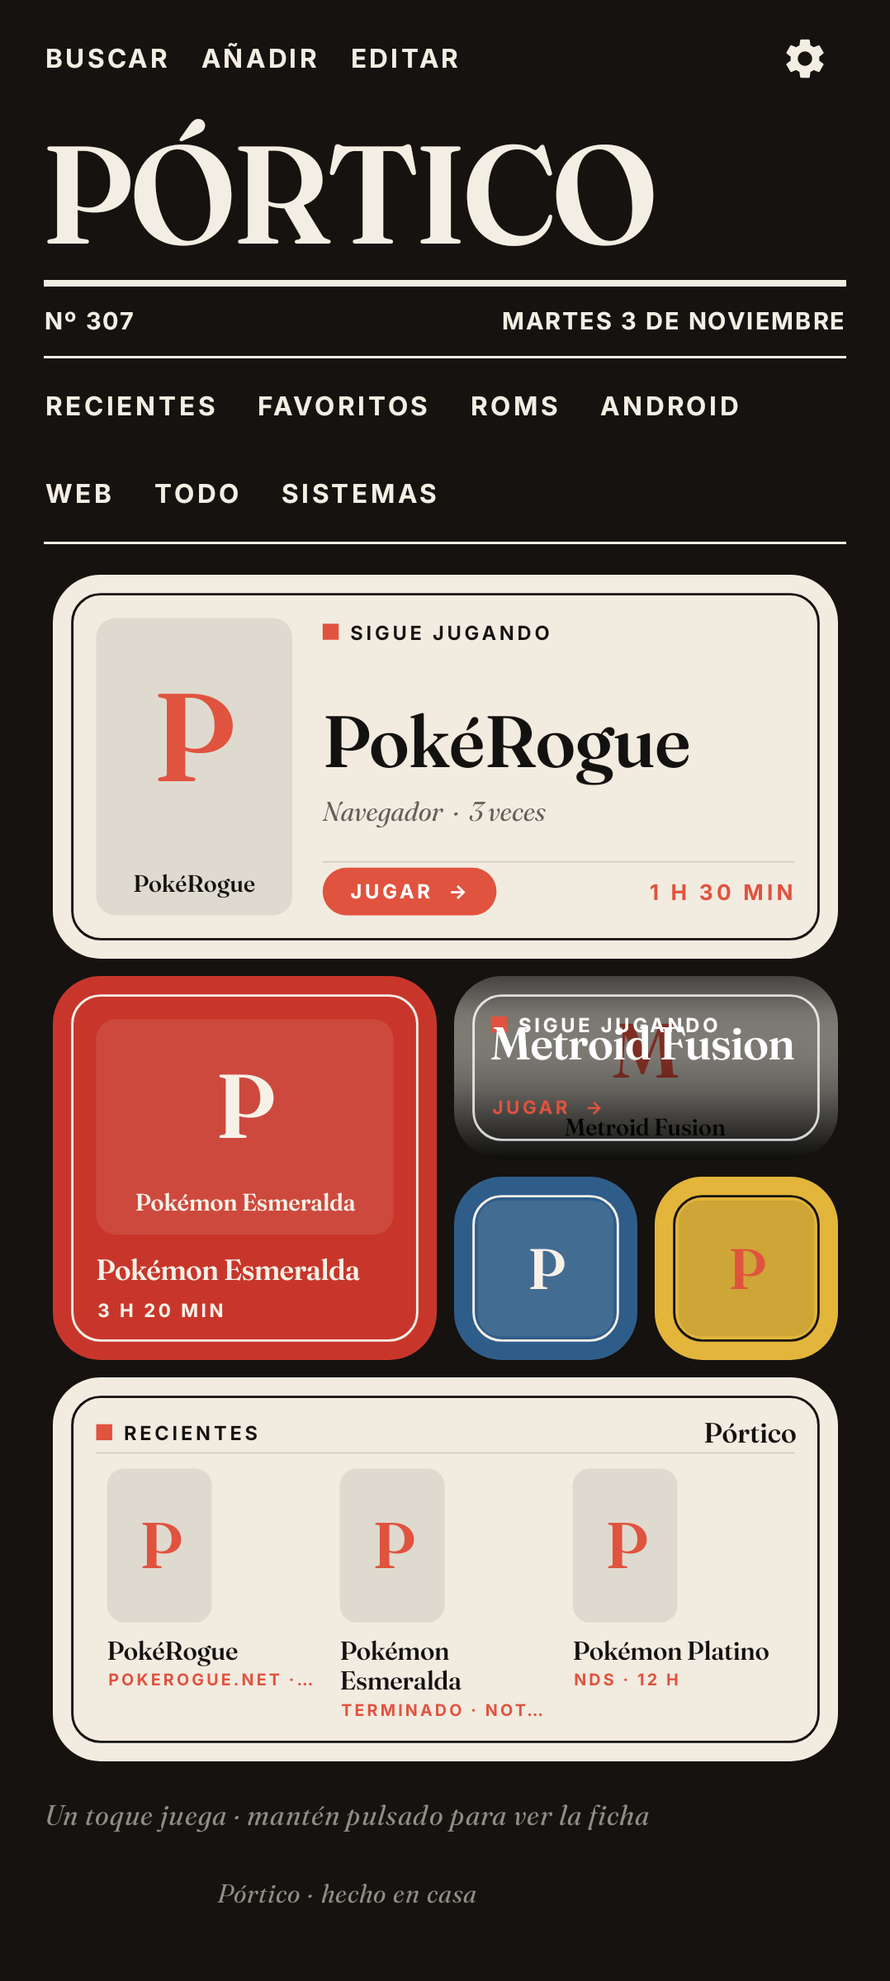
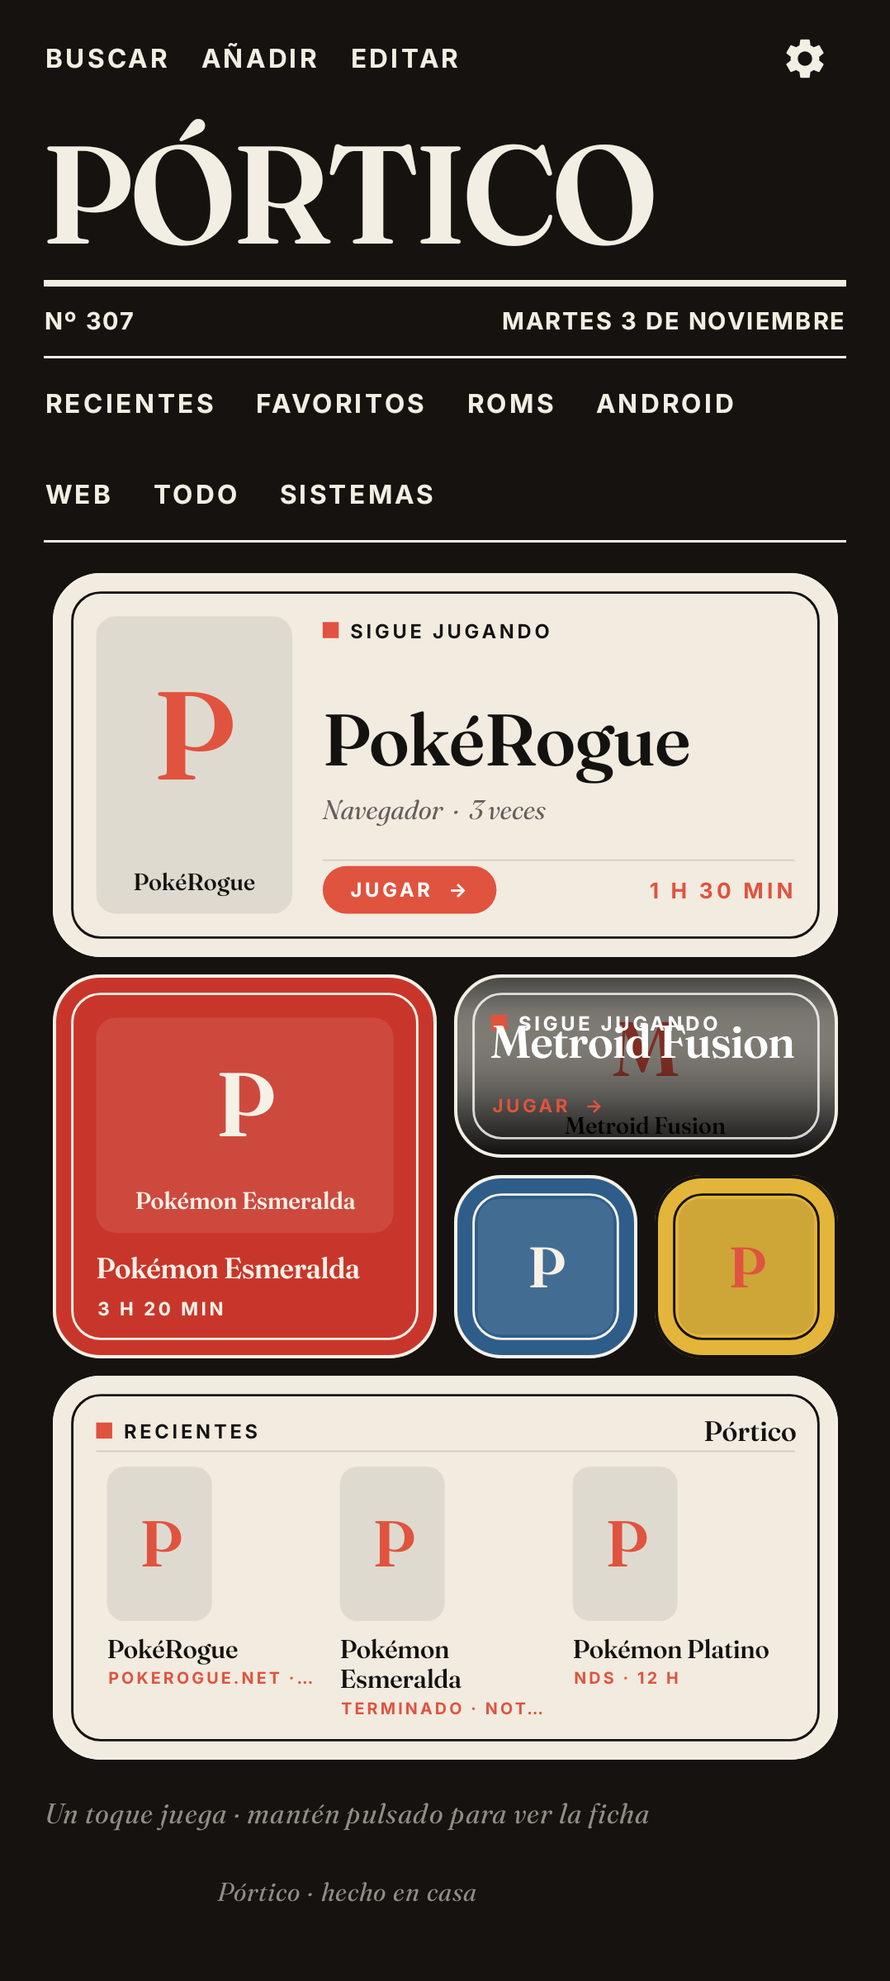
Pórtico 0.15.1: texto con la tinta del tema, contorno del color del texto en los elementos, menús con un solo tamaño, apariencia sincronizada entre Pórticos
Claude-Session: https://claude.ai/code/session_01Q4uywen3nuzUg5CTwJaCY5

diff --git a/app/src/main/java/com/gonzalo/portico/TemaMotor.kt b/app/src/main/java/com/gonzalo/portico/TemaMotor.kt
@@ -1,6 +1,7 @@
 package com.gonzalo.portico
 
 import android.content.Context
+import org.json.JSONObject
 import androidx.compose.foundation.isSystemInDarkTheme
 import androidx.compose.foundation.shape.CutCornerShape
 import androidx.compose.foundation.shape.RoundedCornerShape
@@ -224,12 +225,47 @@ object Skin {
         origenAtrio = p.getBoolean("origen_atrio", true)
         Modo.eleccion = p.getInt("modo", 0).coerceIn(0, 2)
         fondoId = p.getString("fondo_id", "")?.takeIf { id -> FONDOS.any { it.id == id } } ?: ""
+        ajustesAt = p.getLong("ajustes_at", 0L)
         fondoPropio = p.getLong("fondo_propio", 0L); tintaPropia = p.getLong("tinta_propia", 0L); acentoPropio = p.getLong("acento_propio", 0L)
     }
 
+    /** Cuándo se cambió la apariencia (milisegundos): al sincronizar con tus otros Pórticos gana la más reciente. */
+    var ajustesAt = 0L
+
+    /** Guarda la apariencia (y la marca como cambiada ahora, para que viaje a tus otros Pórticos). */
     fun guardar(c: Context) {
+        ajustesAt = System.currentTimeMillis()
+        persistir(c)
+        SincroP.cambio(c)
+    }
+
+    /** La apariencia que viaja con la cuenta (tema, fondo, acento, colores a mano, letras, tamaño…). */
+    fun ajustesJson(): JSONObject = JSONObject().put("at", ajustesAt).put("skin", JSONObject()
+        .put("paleta", palette.id).put("display", display).put("body", body).put("acento", accentId).put("escala", escala)
+        .put("invertido", invertido).put("origenAtrio", origenAtrio).put("modo", Modo.eleccion)
+        .put("fondoId", fondoId).put("fondoPropio", fondoPropio).put("tintaPropia", tintaPropia).put("acentoPropio", acentoPropio))
+
+    /** Aplica la apariencia de otro de tus Pórticos si es más nueva que la de aquí. Devuelve true si ha cambiado algo. */
+    fun aplicarAjustes(c: Context, o: JSONObject): Boolean {
+        val at = o.optLong("at", 0L)
+        if (at <= ajustesAt) return false
+        val k = o.optJSONObject("skin") ?: return false
+        palette = PALETTES.firstOrNull { it.id == k.optString("paleta") } ?: palette
+        display = k.optString("display", display).ifBlank { "Atrio" }; body = k.optString("body", body).ifBlank { "Atrio" }
+        accentId = k.optString("acento", accentId).takeIf { id -> id == "paleta" || ACCENT_COLORS.any { it.id == id } } ?: "paleta"
+        escala = k.optInt("escala", escala).coerceIn(80, 140)
+        invertido = k.optBoolean("invertido", invertido); origenAtrio = k.optBoolean("origenAtrio", origenAtrio)
+        Modo.eleccion = k.optInt("modo", Modo.eleccion).coerceIn(0, 2)
+        fondoId = k.optString("fondoId").takeIf { id -> FONDOS.any { it.id == id } } ?: ""
+        fondoPropio = k.optLong("fondoPropio", 0L); tintaPropia = k.optLong("tintaPropia", 0L); acentoPropio = k.optLong("acentoPropio", 0L)
+        ajustesAt = at
+        persistir(c)
+        return true
+    }
+
+    private fun persistir(c: Context) {
         Widgets.pedir(c)
-        p(c).edit().putString("paleta", palette.id).putString("display", display).putString("body", body).putString("forma", forma.id)
+        p(c).edit().putLong("ajustes_at", ajustesAt).putString("paleta", palette.id).putString("display", display).putString("body", body).putString("forma", forma.id)
             .putString("acento", accentId).putBoolean("invertido", invertido).putBoolean("origen_atrio", origenAtrio).putInt("escala", escala).putInt("modo", Modo.eleccion)
             .putString("fondo_id", fondoId).putLong("fondo_propio", fondoPropio).putLong("tinta_propia", tintaPropia).putLong("acento_propio", acentoPropio).apply()
     }
@@ -307,6 +343,9 @@ fun PorticoTheme(content: @Composable () -> Unit) {
     androidx.compose.runtime.CompositionLocalProvider(
         LocalDensity provides Density(d.density, d.fontScale * Skin.escala / 100f)
     ) {
-        MaterialTheme(colorScheme = appColors(), typography = AppTypography, content = content)
+        MaterialTheme(colorScheme = appColors(), typography = AppTypography) {
+            // El texto sin color propio sale con la tinta del tema (si no, negro: se veía mal sobre un fondo oscuro)
+            androidx.compose.runtime.CompositionLocalProvider(androidx.compose.material3.LocalContentColor provides Charcoal, content = content)
+        }
     }
 }

diff --git a/app/src/main/java/com/gonzalo/portico/Revista.kt b/app/src/main/java/com/gonzalo/portico/Revista.kt
@@ -62,9 +62,13 @@ fun Antetitulo(texto: String, modifier: Modifier = Modifier, tam: TextUnit = 13.
 /** Un enlace de acción en versalitas («BUSCAR», «EDITAR», «+ AÑADIR»…). */
 @Composable
 fun EnlaceRevista(texto: String, modifier: Modifier = Modifier, acento: Boolean = false, onClick: () -> Unit) {
-    Text(texto.uppercase(), color = if (acento) Acento else Charcoal, fontFamily = Body, fontSize = 12.sp, fontWeight = FontWeight.Black, letterSpacing = 1.4.sp, maxLines = 1,
+    Text(texto.uppercase(), color = if (acento) Acento else Charcoal, fontFamily = Body, fontSize = MENU_SP, fontWeight = FontWeight.Black, letterSpacing = MENU_ESPACIO, maxLines = 1,
         modifier = modifier.semantics { role = Role.Button }.clickable(onClick = onClick).padding(vertical = 10.dp))
 }
+
+/** El texto de todos los menús (enlaces, secciones, pestañas, filtros): el mismo tamaño y espaciado en toda la app. */
+val MENU_SP = 12.sp
+val MENU_ESPACIO = 1.4.sp
 
 /** «← VOLVER» (o «← PÓRTICO» en lo que cuelga de la portada). */
 @Composable
@@ -80,7 +84,7 @@ fun PestanasRevista(nombres: List<String>, sel: Int, modifier: Modifier = Modifi
                 Row(Modifier.semantics { selected = on; role = Role.Tab }.clickable { onSel(i) }
                     .drawBehind { if (on) drawRect(Acento, topLeft = Offset(0f, size.height - 3.dp.toPx()), size = Size(size.width, 3.dp.toPx())) }
                     .padding(top = 12.dp, bottom = 10.dp), verticalAlignment = Alignment.Bottom) {
-                    Text(n.uppercase(), color = if (on) Charcoal else Muted, fontFamily = Body, fontSize = 12.sp, fontWeight = FontWeight.Black, letterSpacing = 1.6.sp, maxLines = 1)
+                    Text(n.uppercase(), color = if (on) Charcoal else Muted, fontFamily = Body, fontSize = MENU_SP, fontWeight = FontWeight.Black, letterSpacing = MENU_ESPACIO, maxLines = 1)
                     cuentas?.getOrNull(i)?.let { c -> Text(" $c", color = Acento, fontFamily = Display, fontWeight = FontWeight.SemiBold, fontSize = 15.sp, maxLines = 1) }
                 }
             }
@@ -100,7 +104,7 @@ fun FiltrosRevista(opciones: List<String>, sel: Int, modifier: Modifier = Modifi
 /** Un filtro suelto (que se enciende y se apaga): versalitas, encendido en acento y subrayado. */
 @Composable
 fun FiltroRevista(texto: String, on: Boolean, modifier: Modifier = Modifier, onClick: () -> Unit) {
-    Text(texto.uppercase(), color = if (on) Acento else Charcoal, fontFamily = Body, fontSize = 11.sp, fontWeight = FontWeight.Black, letterSpacing = 1.2.sp, maxLines = 1,
+    Text(texto.uppercase(), color = if (on) Acento else Charcoal, fontFamily = Body, fontSize = MENU_SP, fontWeight = FontWeight.Black, letterSpacing = MENU_ESPACIO, maxLines = 1,
         modifier = modifier.semantics { selected = on }.clickable(onClick = onClick).padding(top = 8.dp, bottom = 13.dp)
             .drawBehind { if (on) drawRect(Acento, topLeft = Offset(0f, size.height - 4.dp.toPx()), size = Size(size.width, 1.5.dp.toPx())) })
 }
@@ -165,7 +169,7 @@ fun MagChoice(options: List<String>, selected: Int, label: String? = null, onPic
             options.forEachIndexed { i, o ->
                 val on = i == selected
                 Text(
-                    o.uppercase(), color = if (on) Acento else Charcoal, fontFamily = Body, fontSize = 11.sp, fontWeight = FontWeight.Black, letterSpacing = 1.2.sp,
+                    o.uppercase(), color = if (on) Acento else Charcoal, fontFamily = Body, fontSize = MENU_SP, fontWeight = FontWeight.Black, letterSpacing = MENU_ESPACIO,
                     modifier = Modifier.clickable(enabled = !on) { onPick(i) }.padding(vertical = 8.dp)
                         .drawBehind { if (on) drawRect(Acento, topLeft = Offset(0f, size.height - 6.dp.toPx()), size = Size(size.width, 1.5.dp.toPx())) }
                 )

diff --git a/app/src/main/java/com/gonzalo/portico/Mezcla.kt b/app/src/main/java/com/gonzalo/portico/Mezcla.kt
@@ -20,7 +20,7 @@ class JuegoSync(
 )
 
 /** La biblioteca de un dispositivo, tal como la sube a la cuenta. */
-class Blob(val dev: String, val juegos: List<JuegoSync>, val borrados: Map<String, Long>, val pantalla: List<Elemento> = emptyList(), val pBorrados: Map<String, Long> = emptyMap())
+class Blob(val dev: String, val juegos: List<JuegoSync>, val borrados: Map<String, Long>, val pantalla: List<Elemento> = emptyList(), val pBorrados: Map<String, Long> = emptyMap(), val ajustes: String = "")
 
 class ResMezcla(val juegos: List<Juego>, val borrados: Map<String, Long>, val cambio: Boolean)
 
@@ -28,11 +28,11 @@ object Mezcla {
     /** Los borrados se olvidan a los 180 días (un dispositivo que lleve más sin conectar ya no los verá). */
     const val OLVIDO = 180L * 86_400_000L
 
-    fun aBlob(dev: String, juegos: List<Juego>, borrados: Map<String, Long>, pantalla: List<Elemento> = emptyList(), pBorrados: Map<String, Long> = emptyMap()): Blob = Blob(dev,
+    fun aBlob(dev: String, juegos: List<Juego>, borrados: Map<String, Long>, pantalla: List<Elemento> = emptyList(), pBorrados: Map<String, Long> = emptyMap(), ajustes: String = ""): Blob = Blob(dev,
         juegos.filter { it.titulo.isNotBlank() }.distinctBy { it.clave }.map { j ->
             JuegoSync(j.clave, j.titulo, j.tipo, j.sistema, j.paquete, j.url, j.archivo, j.favorito, j.terminado, j.finalizado, j.nota, j.notas, j.maqueta,
                 j.orientacion, j.anadido, j.mod, j.msPropios, j.vecesPropias, j.ultima)
-        }, borrados, pantalla, pBorrados)
+        }, borrados, pantalla, pBorrados, ajustes)
 
     fun aJson(b: Blob): String = JSONObject().put("v", 1).put("dev", b.dev)
         .put("borrados", JSONObject().also { o -> b.borrados.forEach { (k, v) -> o.put(k, v) } })
@@ -44,7 +44,8 @@ object Mezcla {
             }
         })
         .put("pe", JSONArray().also { a -> b.pantalla.forEach { a.put(elementoAJson(it)) } })
-        .put("pb", JSONObject().also { o -> b.pBorrados.forEach { (k, v) -> o.put(k, v) } }).toString()
+        .put("pb", JSONObject().also { o -> b.pBorrados.forEach { (k, v) -> o.put(k, v) } })
+        .apply { if (b.ajustes.isNotBlank()) put("aj", JSONObject(b.ajustes)) }.toString()
 
     fun deJson(s: String?): Blob? = try {
         if (s.isNullOrBlank()) null else {
@@ -59,7 +60,8 @@ object Mezcla {
                     g.optLong("an"), g.optLong("mod"), g.optLong("msp"), g.optInt("vp"), g.optLong("ul"))
             }, bo?.keys()?.asSequence()?.associateWith { bo.optLong(it) } ?: emptyMap(),
                 o.optJSONArray("pe")?.let { a -> (0 until a.length()).mapNotNull { elementoDeJson(a.getJSONObject(it)) } } ?: emptyList(),
-                o.optJSONObject("pb")?.let { pb -> pb.keys().asSequence().associateWith { pb.optLong(it) } } ?: emptyMap())
+                o.optJSONObject("pb")?.let { pb -> pb.keys().asSequence().associateWith { pb.optLong(it) } } ?: emptyMap(),
+                o.optJSONObject("aj")?.toString().orEmpty())
         }
     } catch (e: Exception) { null }
 

diff --git a/app/src/main/java/com/gonzalo/portico/Lienzo.kt b/app/src/main/java/com/gonzalo/portico/Lienzo.kt
@@ -6,6 +6,7 @@ import android.graphics.BitmapFactory
 import android.net.Uri
 import androidx.compose.foundation.ExperimentalFoundationApi
 import androidx.compose.foundation.background
+import androidx.compose.foundation.border
 import androidx.compose.foundation.clickable
 import androidx.compose.foundation.combinedClickable
 import androidx.compose.foundation.gestures.awaitEachGesture
@@ -63,7 +64,7 @@ val COLORES_ELEMENTO = listOf(0, 0xFFC8362B.toInt(), 0xFFE08A2E.toInt(), 0xFFE3B
     0xFF6B4C9A.toInt(), 0xFFD66B9A.toInt(), 0xFF15120F.toInt(), 0xFFF3EEE4.toInt(), 0xFF8A7F72.toInt())
 
 /** Tinta legible sobre un fondo. */
-fun tintaSobre(fondo: Color): Color = if (fondo.luminance() > 0.45f) Color(0xFF15120F) else Color(0xFFF3EEE4)
+fun tintaSobre(fondo: Color): Color = if (fondo.luminance2() > 0.5f) Color(0xFF15120F) else Color(0xFFF6F1E7)
 
 /** Guarda una imagen elegida para la pantalla de inicio SIN reducirla ni recomprimirla (los mismos bytes: máxima calidad) y devuelve su nombre de archivo. */
 suspend fun guardarImagenPantalla(c: Context, id: String, uri: Uri): String? = withContext(Dispatchers.IO) {
@@ -170,17 +171,18 @@ private fun ElementoLienzo(e0: Elemento, j: Juego?, px: Float, editando: Boolean
         .size(with(d) { (ancho - 2 * margen).toDp() }, with(d) { (alto - 2 * margen).toDp() })
         .testTag("el-" + e0.id)
         .zIndex(if (a != null) 2f else 0f)
-        .shadow(if (a != null) 10.dp else 0.dp, forma)
+    // El reborde por fuera, justo por la línea del contorno (como una silueta: sin sombra ni nada más), del color del texto
+    val contorno = Modifier.border(1.5.dp, tinta, forma)
     if (delWidget) {
         // Los juegos y los widgets: exactamente el dibujo de los widgets de fuera (con su papel, su reborde y sus esquinas)
-        Box(caja) {
+        Box(caja.then(contorno)) {
             ContenidoWidget(e0, j, with(d) { ((e0.w * px - 2 * margen) / density) }, with(d) { ((e0.h * px - 2 * margen) / density) }, editando, alJugar, alAbrir)
             if (editando) Asa(e0)
         }
         return
     }
     Box(
-        caja.clip(forma).background(fondo)
+        caja.clip(forma).background(fondo).then(contorno)
             .drawBehind {
                 // El reborde de los widgets: una línea fina de tinta, metida hacia dentro
                 val m = 3.5.dp.toPx()

diff --git a/app/src/main/java/com/gonzalo/portico/SincroP.kt b/app/src/main/java/com/gonzalo/portico/SincroP.kt
@@ -72,7 +72,7 @@ object SincroP {
     suspend fun subir(c: Context, forzar: Boolean = false): Boolean = candado.withLock {
         if (!Cuenta.vinculada) return@withLock true
         try {
-            val blob = Mezcla.aJson(Mezcla.aBlob(Cuenta.dispositivo, Biblioteca.juegos.toList(), HashMap(Biblioteca.borrados), Pantalla.items.toList(), HashMap(Pantalla.borrados)))
+            val blob = Mezcla.aJson(Mezcla.aBlob(Cuenta.dispositivo, Biblioteca.juegos.toList(), HashMap(Biblioteca.borrados), Pantalla.items.toList(), HashMap(Pantalla.borrados), if (Skin.ajustesAt > 0L) Skin.ajustesJson().toString() else ""))
             val hash = blob.hashCode().toString() + ":" + blob.length
             val p = prefs(c)
             if (!forzar && p.getString("hash", "") == hash) return@withLock true
@@ -107,10 +107,13 @@ object SincroP {
                 if (dev == Cuenta.dispositivo || ts <= vistas.optLong(dev, 0L) || ahora - ts > Cuenta.STALE) continue
                 val raw = Cuenta.db("GET", "${Cuenta.raiz}/dev/$dev/data", null) ?: continue
                 val datos = JSONTokener(raw).nextValue() as? String ?: continue
-                Mezcla.deJson(datos)?.let { nuevos += Blob(dev, it.juegos, it.borrados, it.pantalla, it.pBorrados) }
+                Mezcla.deJson(datos)?.let { nuevos += Blob(dev, it.juegos, it.borrados, it.pantalla, it.pBorrados, it.ajustes) }
                 vistosNuevos.put(dev, ts)
             }
             var cambio = false
+            // La apariencia (tema, fondo, acento, colores a mano, letras…) más reciente de tus otros Pórticos
+            nuevos.mapNotNull { b -> b.ajustes.takeIf { it.isNotBlank() }?.let { runCatching { JSONObject(it) }.getOrNull() } }.maxByOrNull { it.optLong("at") }
+                ?.let { if (Skin.aplicarAjustes(c, it)) cambio = true }
             if (nuevos.isNotEmpty()) {
                 val r = Mezcla.mezclar(Biblioteca.juegos.toList(), HashMap(Biblioteca.borrados), nuevos, Cuenta.dispositivo)
                 if (r.cambio) { Biblioteca.aplicarMezcla(r.juegos, r.borrados); cambio = true }

diff --git a/app/src/test/java/com/gonzalo/portico/WidgetsTest.kt b/app/src/test/java/com/gonzalo/portico/WidgetsTest.kt
@@ -145,4 +145,23 @@ class WidgetsTest {
         val sola = runBlocking { Widgets.componer(ctx, WTipo.MARCA, 1, 264f, 132f) }.bitmap(ctx, 264f, 132f, false, 1f)
         assertEquals("la marca sola es transparente", 0, sola.getPixel(2, 2) ushr 24)
     }
+
+    private fun pixelCentro(tipo: WTipo): Int {
+        runBlocking { Widgets.cargarLetras(ctx) }
+        val pag = runBlocking { Widgets.componer(ctx, tipo, 1, 264f, 132f) }
+        val bm = pag.bitmap(ctx, 264f, 132f, Skin.tones.darkBg, 1f)
+        return bm.getPixel(bm.width - 20, bm.height / 2)    // (a la derecha: sobre el papel, lejos de portadas y letras)
+    }
+
+    @Test fun losWidgetsUsanLosColoresDeApariencia() {
+        siembra(); Skin.cargar(ctx)
+        Skin.origenAtrio = false; Skin.invertido = false; Skin.fondoId = ""; Skin.fondoPropio = 0L; Skin.tintaPropia = 0L; Skin.acentoPropio = 0L
+        val granate = FONDOS.first { it.id == "granate" }
+        Skin.fondoId = "granate"
+        assertEquals("fondo de color", granate.tones.paper.toInt(), pixelCentro(WTipo.JUGANDO))
+        Skin.fondoId = ""; Skin.fondoPropio = 0xFF123456L
+        assertEquals("fondo a mano", 0xFF123456.toInt(), pixelCentro(WTipo.JUGANDO))
+        assertEquals(0xFF123456.toInt(), pixelCentro(WTipo.ESTANTE))
+        Skin.fondoPropio = 0L
+    }
 }

diff --git a/app/src/test/java/com/gonzalo/portico/PantallaTest.kt b/app/src/test/java/com/gonzalo/portico/PantallaTest.kt
@@ -267,4 +267,18 @@ class PantallaTest {
         val normal = kotlinx.coroutines.runBlocking { guardarPortadaBytes(ctx, "q2", bytes) }!!
         android.graphics.BitmapFactory.decodeFile(normal, o); assertTrue("${o.outWidth}x${o.outHeight}", o.outWidth >= 1500 && o.outHeight >= 2000)
     }
+
+    @Test fun elTextoPorDefectoSigueLaTintaDelTema() {
+        Skin.cargar(ctx); Skin.origenAtrio = false; Skin.invertido = false; Skin.fondoId = "granate"
+        var color = androidx.compose.ui.graphics.Color.Unspecified; var tinta = androidx.compose.ui.graphics.Color.Unspecified
+        rule.setContent { PorticoTheme { color = androidx.compose.material3.LocalContentColor.current; tinta = Charcoal } }
+        rule.waitForIdle()
+        assertEquals("sobre un fondo oscuro el texto sin color propio no puede ser negro", tinta, color)
+        assertTrue(tinta.luminance2() > 0.5f)
+        Skin.fondoId = ""
+    }
+
+    @Test fun losMenusTienenTodosElMismoTexto() {
+        assertEquals(12f, MENU_SP.value, 0f); assertEquals(1.4f, MENU_ESPACIO.value, 0f)
+    }
 }

diff --git a/app/src/test/java/com/gonzalo/portico/CapturasTest.kt b/app/src/test/java/com/gonzalo/portico/CapturasTest.kt
@@ -100,6 +100,15 @@ class CapturasTest {
     }
 
     @Test
+    fun ajustesConFondoOscuro() {
+        org.junit.Assume.assumeTrue(System.getProperty("roborazzi.test.record") == "true")
+        siembra(); Skin.fondoId = "granate"
+        montar(oscuro = false)   // (el modo claro: lo que fija el color es el fondo, no el modo)
+        rule.onNodeWithContentDescription("Ajustes").performClick(); foto("30_ajustes_fondo_oscuro")
+        Skin.fondoId = ""
+    }
+
+    @Test
     fun oscuro() {
         org.junit.Assume.assumeTrue(System.getProperty("roborazzi.test.record") == "true")
         siembra()
@@ -172,6 +181,6 @@ class CapturasTest {
         montar(oscuro = false)
         foto("19_atrio_invertido_portada")
         rule.onNodeWithContentDescription("Ajustes").performClick()
-        rule.onNodeWithText("COLORES DE").performScrollTo(); foto("20_ajustes_colores_atrio")
+        rule.onNodeWithText("COLORES DE ATRIO", substring = true).performScrollTo(); foto("20_ajustes_colores_atrio")
     }
 }

diff --git a/app/src/main/java/com/gonzalo/portico/PantInicio.kt b/app/src/main/java/com/gonzalo/portico/PantInicio.kt
@@ -176,11 +176,9 @@ fun PantInicio(
         }
         Filete(1.dp)
         // Las secciones, como el menú de la portada de Atrio: versalitas entre dos filetes
-        FlowRow(Modifier.fillMaxWidth().padding(vertical = 2.dp), horizontalArrangement = Arrangement.spacedBy(18.dp)) {
-            secciones.forEach { (t, f) ->
-                Text(t.uppercase(), color = Charcoal, fontFamily = Body, fontSize = 12.sp, fontWeight = FontWeight.Black, letterSpacing = 1.5.sp, maxLines = 1,
-                    modifier = Modifier.clickable(onClick = f).padding(vertical = 9.dp))
-            }
+        FlowRow(Modifier.fillMaxWidth(), horizontalArrangement = Arrangement.spacedBy(18.dp)) {
+            // (el mismo texto que los enlaces de arriba y que las pestañas: un solo tamaño de menú en toda la app)
+            secciones.forEach { (t, f) -> EnlaceRevista(t, onClick = f) }
         }
         Filete(1.dp)
         Spacer(Modifier.height(10.dp))

diff --git a/app/src/test/java/com/gonzalo/portico/CopiaAtrioTest.kt b/app/src/test/java/com/gonzalo/portico/CopiaAtrioTest.kt
@@ -40,6 +40,11 @@ class CopiaAtrioTest {
 
     private val ctx get() = ApplicationProvider.getApplicationContext<android.content.Context>()
 
+    @org.junit.After fun limpia() {   // (el tema es un objeto global: que no se lo lleven los demás tests)
+        Skin.fondoId = ""; Skin.accentId = "paleta"; Skin.fondoPropio = 0L; Skin.tintaPropia = 0L; Skin.acentoPropio = 0L; Skin.escala = 100
+        Skin.display = "Atrio"; Skin.body = "Atrio"; Modo.eleccion = 0; Skin.origenAtrio = true; Skin.invertido = true; Skin.ajustesAt = 0L
+    }
+
     private fun nodoAtrio(at: Long, skin: JSONObject) = JSONObject().put("name", "Tablet").put("device", "android").put("updated", JSONObject().put(".sv", "timestamp"))
         .put("data", JSONObject().put("ajustes", JSONObject().put("at", at).put("skin", skin)).toString()).toString()
 

diff --git a/app/src/test/java/com/gonzalo/portico/MezclaTest.kt b/app/src/test/java/com/gonzalo/portico/MezclaTest.kt
@@ -69,4 +69,11 @@ class MezclaTest {
         assertEquals(20_000L, j.conTotalMs(20_000).msJugados); assertEquals(13_000L, j.conTotalMs(20_000).msPropios)
         assertEquals(0L, j.conTotalMs(1_000).msPropios); assertEquals(7_000L, j.conTotalMs(1_000).msJugados)
     }
+
+    @Test fun laAparienciaViajaYGanaLaMasReciente() {
+        val aj = """{"at":50,"skin":{"fondoId":"granate","acento":"azul","escala":112}}"""
+        val b = Mezcla.deJson(Mezcla.aJson(Mezcla.aBlob("B", emptyList(), emptyMap(), ajustes = aj)))!!
+        assertEquals(50L, org.json.JSONObject(b.ajustes).getLong("at"))
+        assertEquals("sin apariencia no añade nada", "", Mezcla.deJson(Mezcla.aJson(Mezcla.aBlob("B", emptyList(), emptyMap())))!!.ajustes)
+    }
 }

diff --git a/app/src/main/java/com/gonzalo/portico/PantEstilo.kt b/app/src/main/java/com/gonzalo/portico/PantEstilo.kt
@@ -36,7 +36,7 @@ import androidx.compose.material3.TextButton
 import kotlinx.coroutines.Dispatchers
 import kotlinx.coroutines.withContext
 
-const val VERSION = "0.15.0"
+const val VERSION = "0.15.1"
 
 private fun aliasInicio(c: Context) = ComponentName(c, "com.gonzalo.portico.InicioAlias")
 private fun esInicio(c: Context) = c.packageManager.getComponentEnabledSetting(aliasInicio(c)) == PackageManager.COMPONENT_ENABLED_STATE_ENABLED
